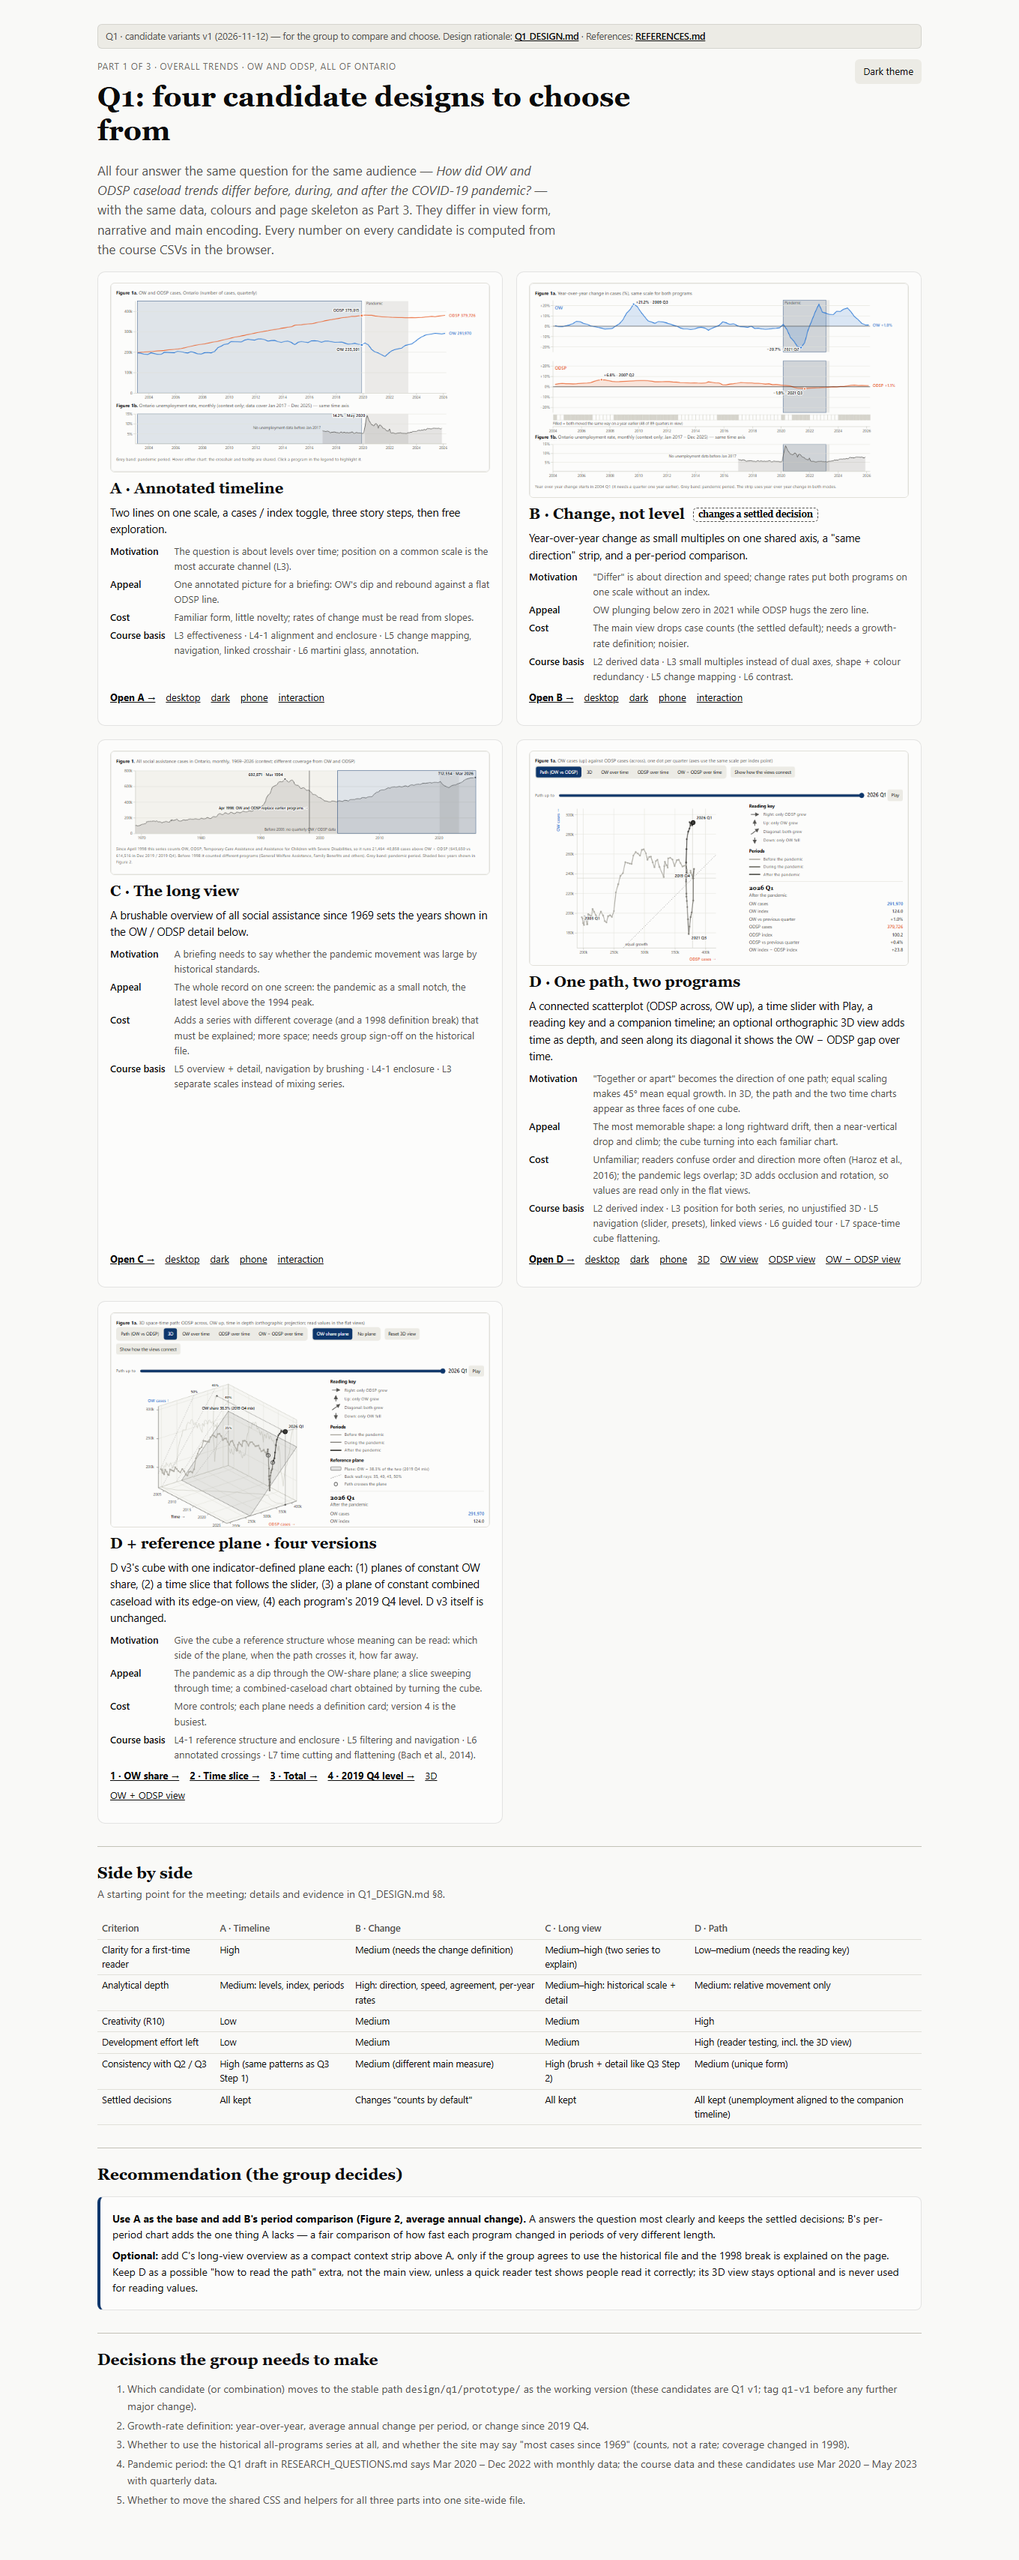
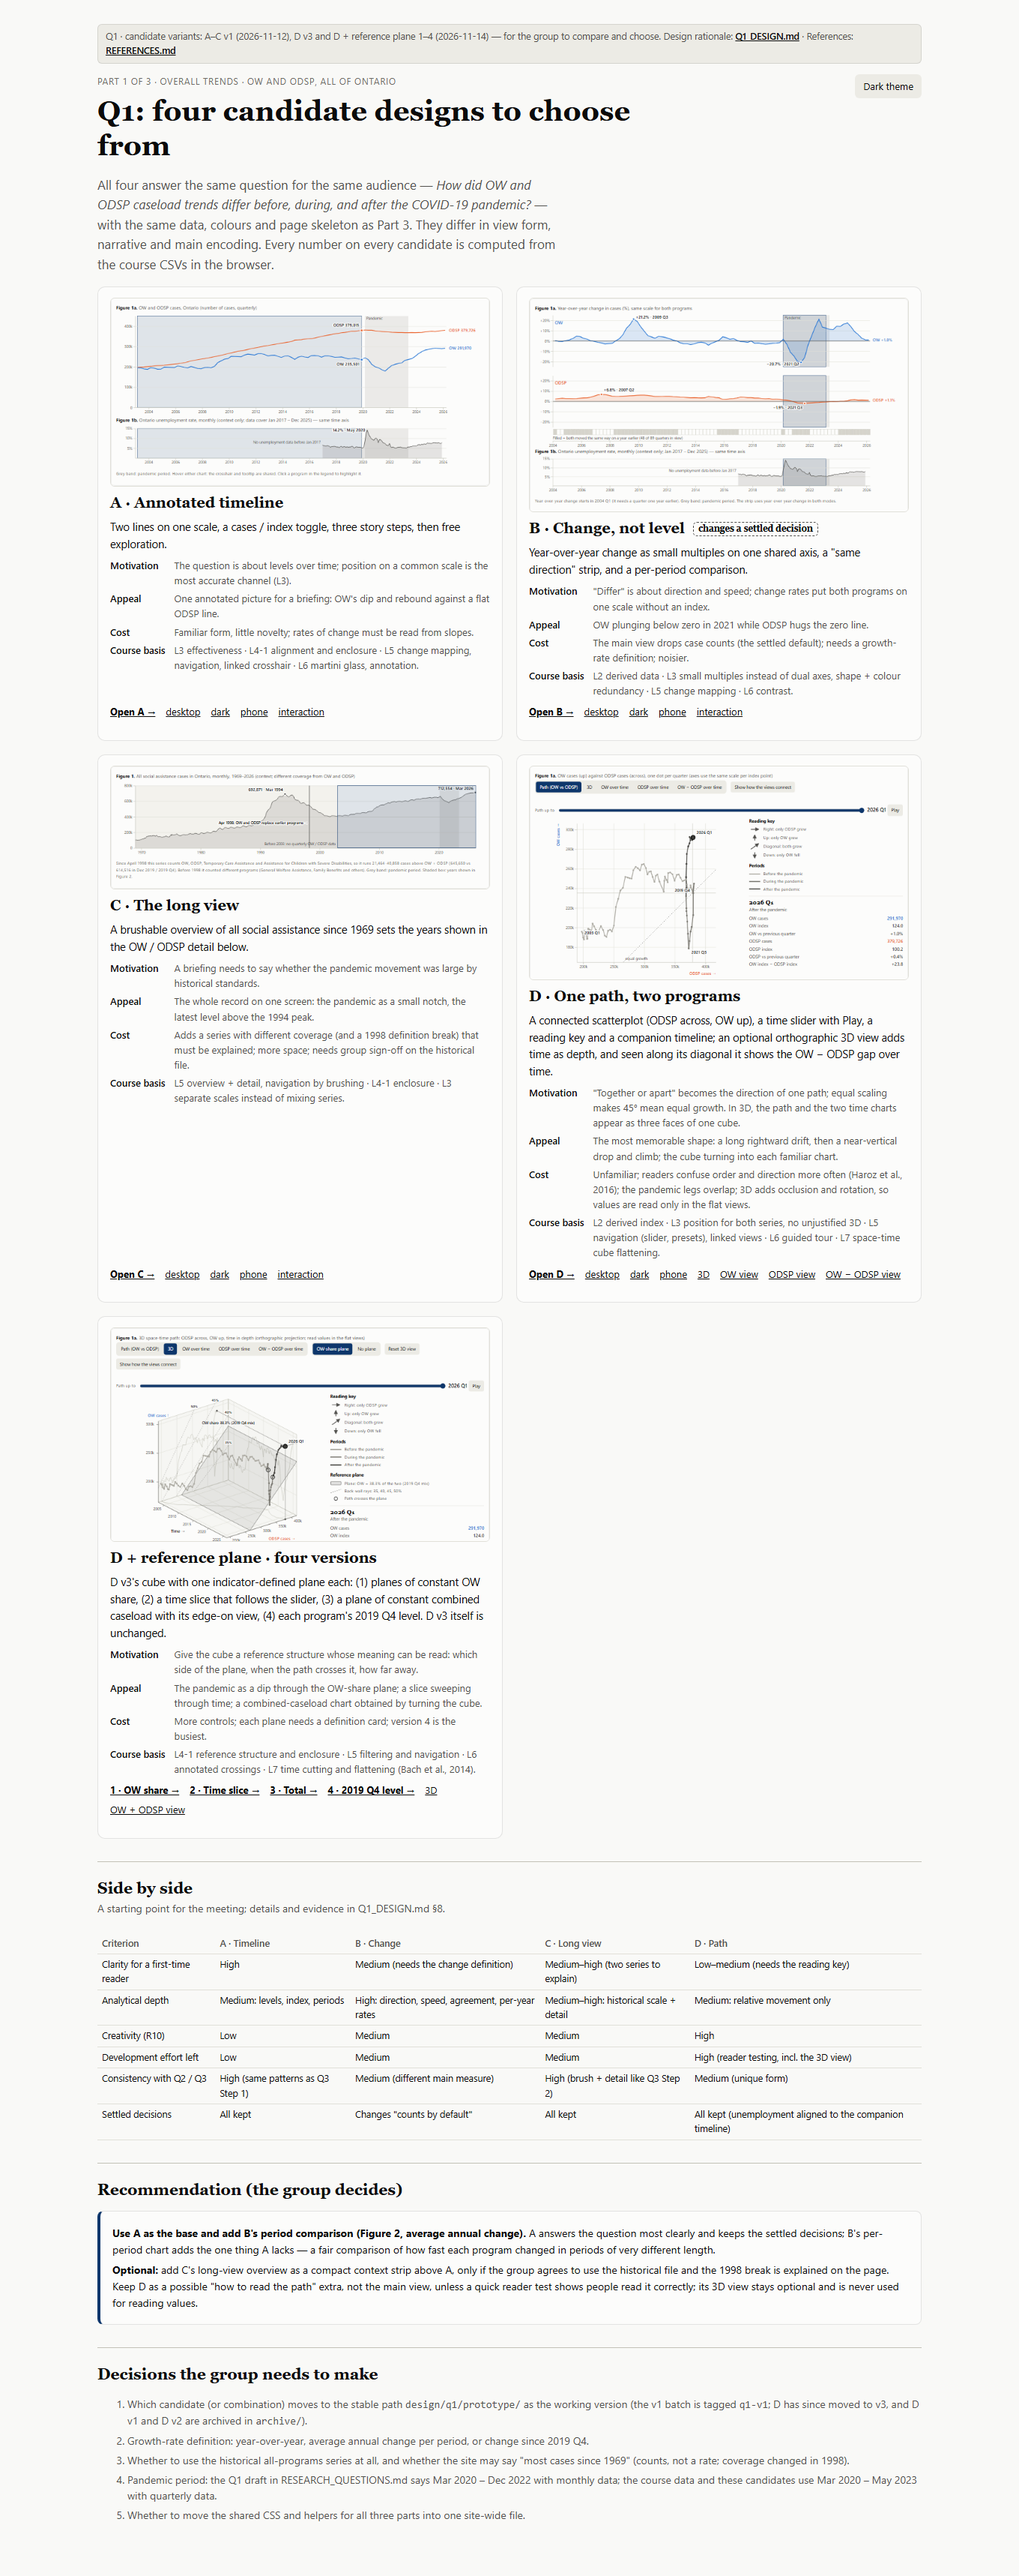
Q1 总览页标记加入参照面版本并更新截图 / Add reference-plane versions to Q1 overview labels and refresh screenshots
- 标题和顶部横幅在 "A–C v1, D v3" 之后加上 "D + reference plane 1–4" / Title and banner now also list D + reference plane 1–4
- 合并后重新截取总览页截图（桌面、手机，浅色、深色）/ Overview screenshots retaken after the merge

diff --git a/design/q1/index.html b/design/q1/index.html
@@ -4,7 +4,7 @@
 <meta charset="utf-8">
 <meta name="viewport" content="width=device-width, initial-scale=1, viewport-fit=cover">
 <link rel="icon" href="data:,">
-<title>Q1 candidates · A–C v1, D v3</title>
+<title>Q1 candidates · A–C v1, D v3, D + plane 1–4</title>
 <link rel="stylesheet" href="shared/q1.css">
 <style>
   .vgrid{display:grid;grid-template-columns:repeat(auto-fit,minmax(min(100%,460px),1fr));gap:18px;margin-top:8px}
@@ -24,7 +24,7 @@
 </head>
 <body>
 <div class="page">
-  <p class="cand" role="note">Q1 · candidate variants: A–C v1 (2026-11-12), D v3 (2026-11-14) — for the group to compare and choose. Design rationale: <a href="Q1_DESIGN.md">Q1_DESIGN.md</a> · References: <a href="REFERENCES.md">REFERENCES.md</a></p>
+  <p class="cand" role="note">Q1 · candidate variants: A–C v1 (2026-11-12), D v3 and D + reference plane 1–4 (2026-11-14) — for the group to compare and choose. Design rationale: <a href="Q1_DESIGN.md">Q1_DESIGN.md</a> · References: <a href="REFERENCES.md">REFERENCES.md</a></p>
   <header class="q-head">
     <p class="eyebrow">Part 1 of 3 · Overall trends · OW and ODSP, all of Ontario</p>
     <h1>Q1: four candidate designs to choose from</h1>
